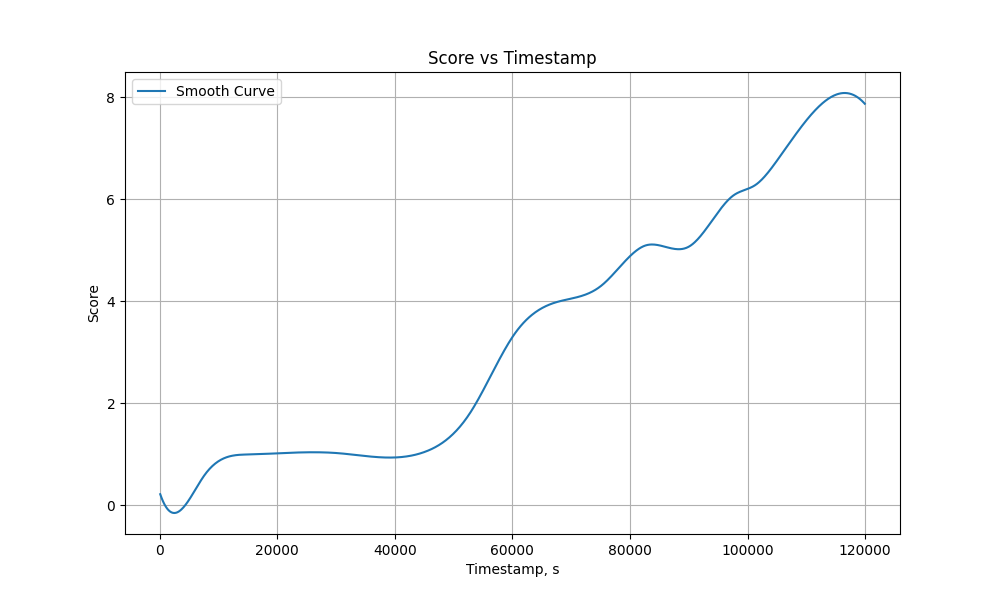
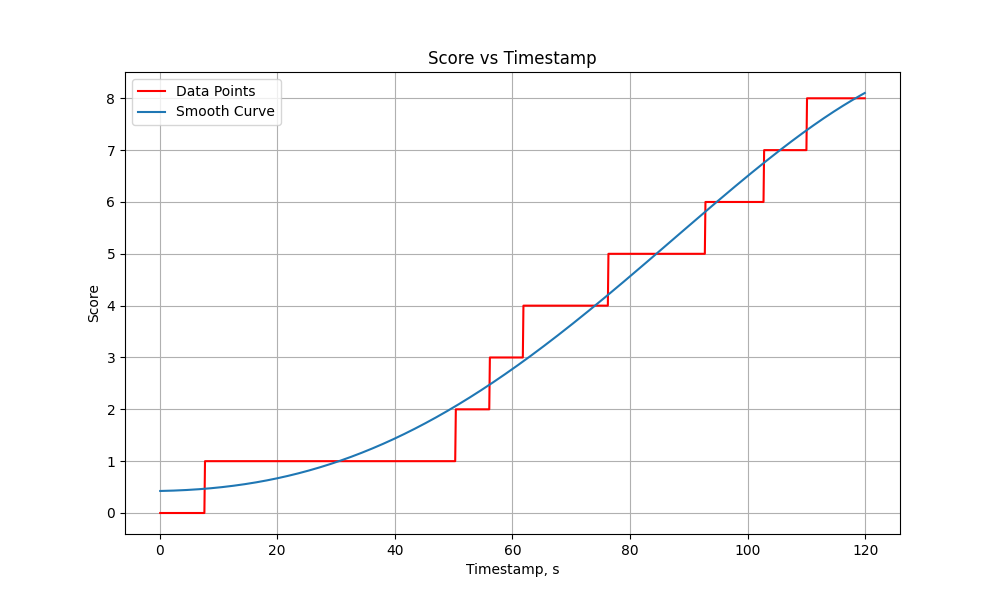
Changed plot script for better data points and trend curves

diff --git a/plot_scores.py b/plot_scores.py
@@ -12,7 +12,7 @@ Creating individual plots for the data obtained in the game and stored in the js
 # Plotting scores for each player
 def plot_score(timestamps, scores, plot_number):
     # Ensure timestamps and scores are numpy arrays for compatibility with UnivariateSpline
-    timestamps_np = np.array(timestamps)
+    timestamps_np = np.array(timestamps) / 1000.0
     scores_np = np.array(scores)
     # The 's' parameter controls the amount of smoothing. A small value of 's' means more smoothing.
     # If 's' is None, s=len(x) which is the default and uses a residual-based estimation.
@@ -21,9 +21,11 @@ def plot_score(timestamps, scores, plot_number):
     # Generate a dense range of timestamps for a smooth curve
     dense_timestamps = np.linspace(min(timestamps_np), max(timestamps_np), 1000)
     smooth_scores = spline(dense_timestamps)  # Evaluate the spline at the dense timestamps
+    smooth_scores = np.poly1d(np.polyfit(timestamps_np, scores_np, 4))(dense_timestamps)
 
     # Plotting
     plt.figure(figsize=(10, 6))
+    plt.plot(timestamps_np, scores_np, color='red', label='Data Points')  # Plot data points
     plt.plot(dense_timestamps, smooth_scores, label='Smooth Curve')
     plt.title('Score vs Timestamp')
     plt.xlabel('Timestamp, s')
